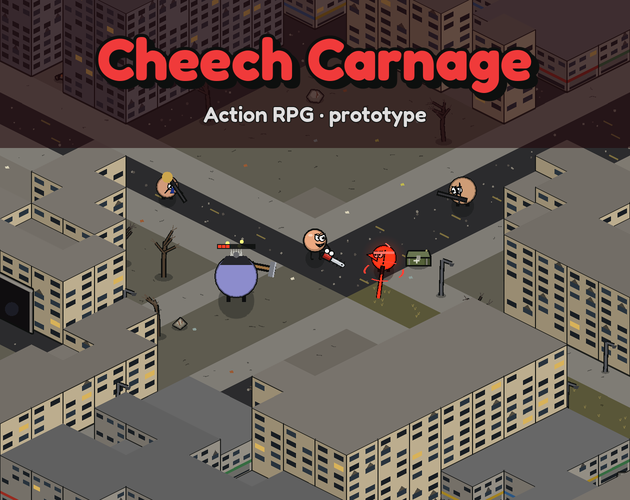
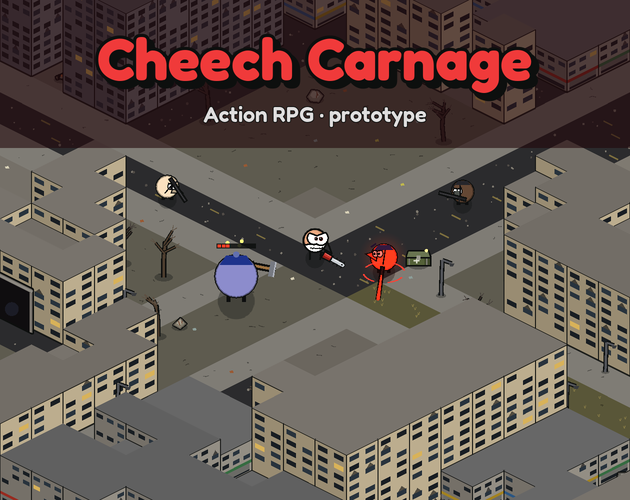
Devlog: Ciccio sempre più furioso e copertine aggiornate
Claude-Session: https://claude.ai/code/session_01CG3rgCetC5aiVPdWRvAy2o

diff --git a/public/assets/devlog.js b/public/assets/devlog.js
@@ -14,6 +14,28 @@ export const PROGETTI = {
 
 export const DEVLOG = [
   {
+    id: "2026-11-01-ciccio-furioso",
+    data: "2026-11-01",
+    progetto: "ciccio",
+    titolo: { it: "Ciccio è sempre più furioso", en: "Cheech is angrier than ever" },
+    punti: {
+      it: [
+        "Ciccio non si calma mai: occhioni enormi, fusi in un'unica forma, con lo sguardo cattivo e le pupille che puntano dove va.",
+        "La bocca è diventata enorme: occupa tutta la parte bassa della palla, con i denti serrati o spalancata in un urlo.",
+        "Contorni neri molto più spessi, così Ciccio si vede bene anche nel caos della battaglia.",
+        "Braccia e gambe sono solo linee nere: niente più guanti né piedi.",
+        "Anche il ritratto in alto a sinistra, la copertina e le immagini del tutorial mostrano il nuovo Ciccio.",
+      ],
+      en: [
+        "Cheech never calms down: huge eyes merged into a single shape, with a mean glare and pupils that point where he's going.",
+        "His mouth is now enormous: it fills the whole bottom of the ball, with clenched teeth or wide open in a scream.",
+        "Much thicker black outlines, so Cheech stands out even in the chaos of battle.",
+        "Arms and legs are just black lines: no more gloves or feet.",
+        "The portrait in the top left, the cover and the tutorial images show the new Cheech too.",
+      ],
+    },
+  },
+  {
     id: "2026-10-31-ciccio-nuovo-look",
     data: "2026-10-31",
     progetto: "ciccio",
